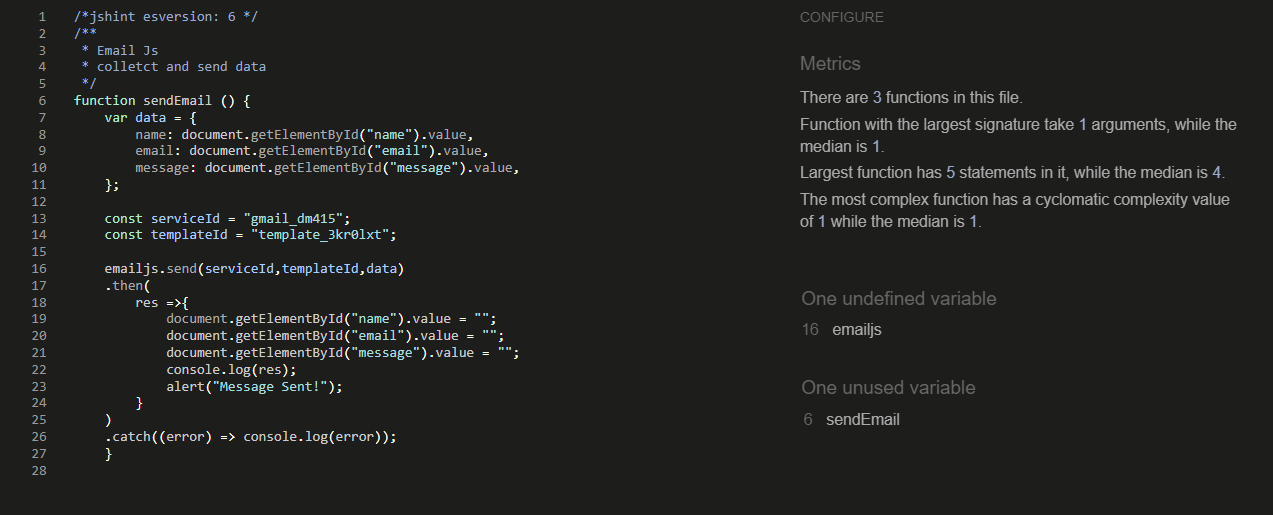
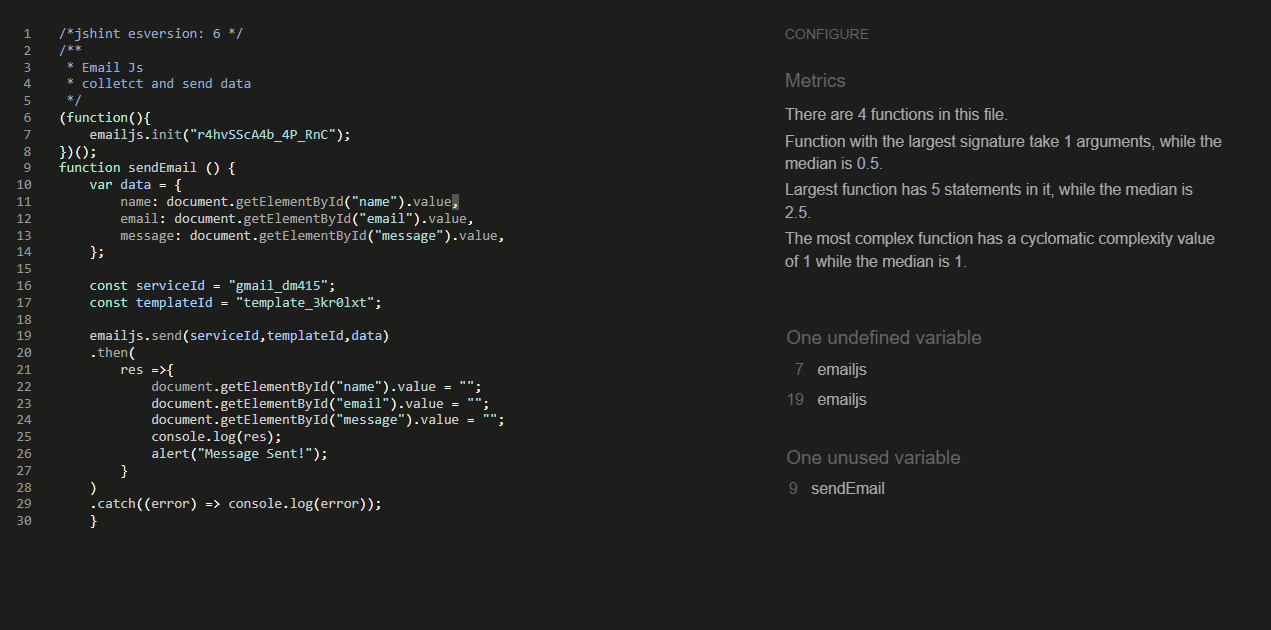
update contactUs jshint validation image and add bug section to readme.md

diff --git a/README.md b/README.md
@@ -259,7 +259,7 @@ The WAVE WebAIM web accessibility evaluation tool was used to ensure the website
 </details>
 
 ### Script Validation
-The JsHint, a JavaScript Code Quality tool was used to ensure the JavaScript codes contain no error. All pages pass with 0 errors.
+The JsHint, a JavaScript Code Quality tool was used to ensure the JavaScript codes contain no error. All pages pass with 0 errors (for "unused variable" and "undefined variable" is  written on HTML codes).
 <details><summary>Game</summary>
 <img src="docs/validations/game_jshint.png">
 </details>
@@ -397,6 +397,16 @@ The website was tested on the following browsers:
 
 [Back to Table Of Contents](#table-of-contents)
 
+## Bugs
+
+| **Bug** | **Fix** |
+| ----------- | ----------- |
+| A uncaught console error  | Console error disappears when refresh page or while user be active playing - Error doesn't affect the page. |
+
+<details><summary>Screenshots</summary>
+<img src="docs/console_error.png">
+</details>
+
 ## Deployment
 The website was deployed using GitHub Pages by following these steps:
 1. In the GitHub repository navigate to the Settings tab
@@ -424,7 +434,7 @@ You can clone the repository by following these steps:
 - [404 Error](/assets/images/404img.png): <a href= "https://www.seekpng.com/ipng/u2w7e6w7t4q8y3e6_404-error-error-404-in-png/">Seekpng</a>
 
 ## Code
-In order of apearance:
+
 - The EMAILJS for the feedback Form [feedback form - emailJs](https://www.emailjs.com/docs/sdk/installation/) 
 
 ## Acknowledgements
